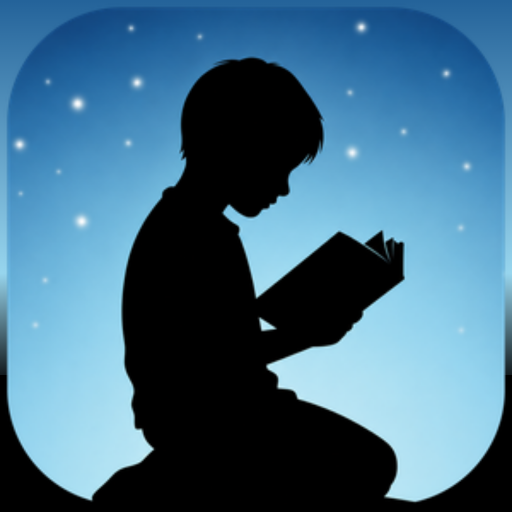
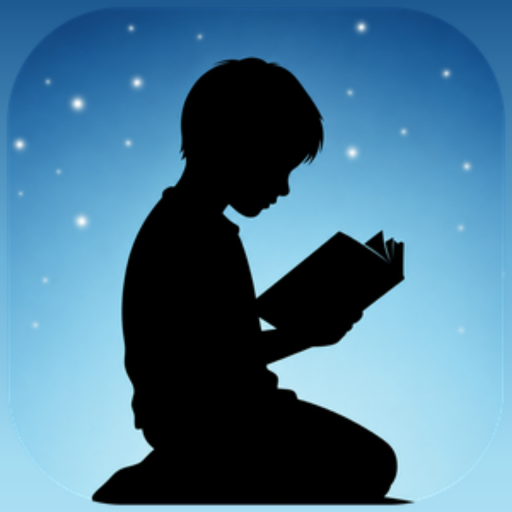
Android: transitions sans saccade + verset chevron + icône sans noir
Trois correctifs remontés après test sur Android :

1. Changement d'écran qui « bug beaucoup » sur Android
   Les transitions gl-xf (iOS ET Android par défaut) animaient l'OPACITÉ
   sur tout le sous-arbre en verre : le compositeur devait rassembler
   toutes les couches de flou .gs (écran sortant + entrant) dans un tampon
   d'opacité par image -> saccade pendant l'animation, stabilisée à la fin.
   On étend au mode gl-xf le traitement déjà éprouvé de gl-native : l'écran
   entrant GLISSE sans fondu (screenInGl), l'écran sortant disparaît net
   (display:none, plus de double composition), la modale zoome, le voile se
   pose net. Transition en pur GPU (transform), verre resté collé (0 saut
   vérifié sur 20 images) -> iOS et Android jouent EXACTEMENT la même
   transition, fluide de part et d'autre.

2. Verset : le chevron fermant » se retrouvait seul sur sa ligne
   Espaces insécables autour des guillemets, sur la carte-verset et le
   verset d'accueil -> « et » collent au texte, le chevron ne peut plus
   jamais être orphelin.

3. Icône : « noir sur les côtés »
   La bande colline synthétique, échantillonnée sur un pixel transparent,
   était NOIRE et débordait dans les coins bas. On la supprime : la colombe
   est posée plein cadre sur SON PROPRE ciel (dégradé échantillonné dans
   l'image). Coins = ciel (haut bleu nuit, bas bleu clair), base sombre du
   personnage au centre-bas comme l'écran de chargement. Zéro noir.
[…]

Changed region(s): [[0.0, 0.2812, 1.0, 1.0]]

diff --git a/index.html b/index.html
@@ -675,10 +675,19 @@
      instant) ; l'écran qui sort disparaît net (pas de fantôme au verre
      cassé) ; la fenêtre modale s'ouvre par un pur zoom, sans fondu. */
   @keyframes screenInGl{ from{ transform:translate3d(0,20px,0); } to{ transform:translate3d(0,0,0); } }
-  html.gl-native .screen-enter{ animation-name:screenInGl; }
-  html.gl-native .screen-exit{ animation:none; display:none; }
+  /* Les DEUX moteurs de verre (gl-native backdrop ET gl-xf transform) partagent
+     ces transitions SANS fondu d'opacité : animer l'opacité d'un groupe qui
+     porte le verre coûte cher sur Android. En backdrop, Chrome coupe le
+     backdrop-filter ; en transform, le compositeur doit rassembler TOUTES les
+     couches de flou .gs (écran sortant + entrant) dans un tampon d'opacité par
+     image -> ça saccade au changement d'écran, puis se stabilise à la fin
+     (exactement le « bug » remonté). Sans opacité : l'entrant GLISSE (verre
+     intact), le sortant disparaît net (pas de double composition), la modale
+     zoome. iOS et Android jouent alors EXACTEMENT la même transition, fluide. */
+  html.gl-native .screen-enter, html.gl-xf .screen-enter{ animation-name:screenInGl; }
+  html.gl-native .screen-exit, html.gl-xf .screen-exit{ animation:none; display:none; }
   @keyframes modalInGl{ from{ transform:scale(0.9) translateY(16px); } to{ transform:scale(1) translateY(0); } }
-  html.gl-native .modal-card{ animation-name:modalInGl; }
+  html.gl-native .modal-card, html.gl-xf .modal-card{ animation-name:modalInGl; }
   @keyframes modalIn{ from{ opacity:0; transform:scale(0.9) translateY(16px); } to{ opacity:1; transform:scale(1) translateY(0); } }
   .modal-veil.closing{ animation:veilOut 0.22s ease forwards; }
   .modal-veil.closing .modal-card{ animation:modalOut 0.22s cubic-bezier(0.4,0,1,1) forwards; }
@@ -821,7 +830,8 @@
   /* Et AUCUN fondu du voile à l'ouverture : l'opacité animée du parent aurait
      coupé le backdrop-filter de la feuille pendant toute l'animation (verre
      mort à l'ouverture). Voile posé net ; la feuille glisse, la fenêtre zoome. */
-  html.gl-native .sheet-veil:not(.closing), html.gl-native .modal-veil:not(.closing){ animation:none; }
+  html.gl-native .sheet-veil:not(.closing), html.gl-native .modal-veil:not(.closing),
+  html.gl-xf .sheet-veil:not(.closing), html.gl-xf .modal-veil:not(.closing){ animation:none; }
   html.gl-native .glass-refl{ display:none; }
   /* Android : pré-promotion des couches -> plus de flash noir au premier
      affichage (la couche du screen et de l'icône existent avant l'anim). */
@@ -4140,7 +4150,9 @@ function showHeroVerse(){
   const t = zone.querySelector(".hero-verse-text");
   const r = zone.querySelector(".hero-verse-ref");
   const card = zone.querySelector(".hero-verse-card");
-  if(t) t.textContent = "« " + v.t + " »";
+  // Espaces insécables ( ) contre les guillemets : le « et le » collent au
+  // texte -> le chevron fermant ne peut JAMAIS se retrouver seul sur une ligne.
+  if(t) t.textContent = "« " + v.t + " »";
   if(r) r.textContent = v.r;
   // Les versets longs passent en corps réduit -> ils tiennent TOUS dans la
   // carte, parfaitement lisibles (vérifié sur les 128 du recueil).
@@ -4888,7 +4900,7 @@ function renderModeSelect(){
         </button>
       </div>
       <h1 class="hero-title">BibleTrivia</h1>
-      <p class="home-verse">« Approchons-nous avec assurance du trône de la grâce. »&nbsp;<span class="hv-ref">Hébreux&nbsp;4:16</span></p>
+      <p class="home-verse">« Approchons-nous avec assurance du trône de la grâce.&nbsp;» <span class="hv-ref">Hébreux&nbsp;4:16</span></p>
     </div>
     <div class="flex-sp home-sp-top"></div>
     ${(()=>{

diff --git a/sw.js b/sw.js
@@ -1,6 +1,6 @@
 /* BibleTrivia — service worker : rend l'app jouable hors connexion.
    À déposer à côté de index.html (même dossier, nom exact "sw.js"). */
-const CACHE = "bibletrivia-v14";
+const CACHE = "bibletrivia-v15";
 const CORE = ["./", "./index.html", "./manifest.json", "./apple-touch-icon.png", "./icon-192.png", "./icon-512.png"];
 self.addEventListener("install", (e) => {
   e.waitUntil(caches.open(CACHE).then((c) => c.addAll(CORE)).catch(() => {}));
